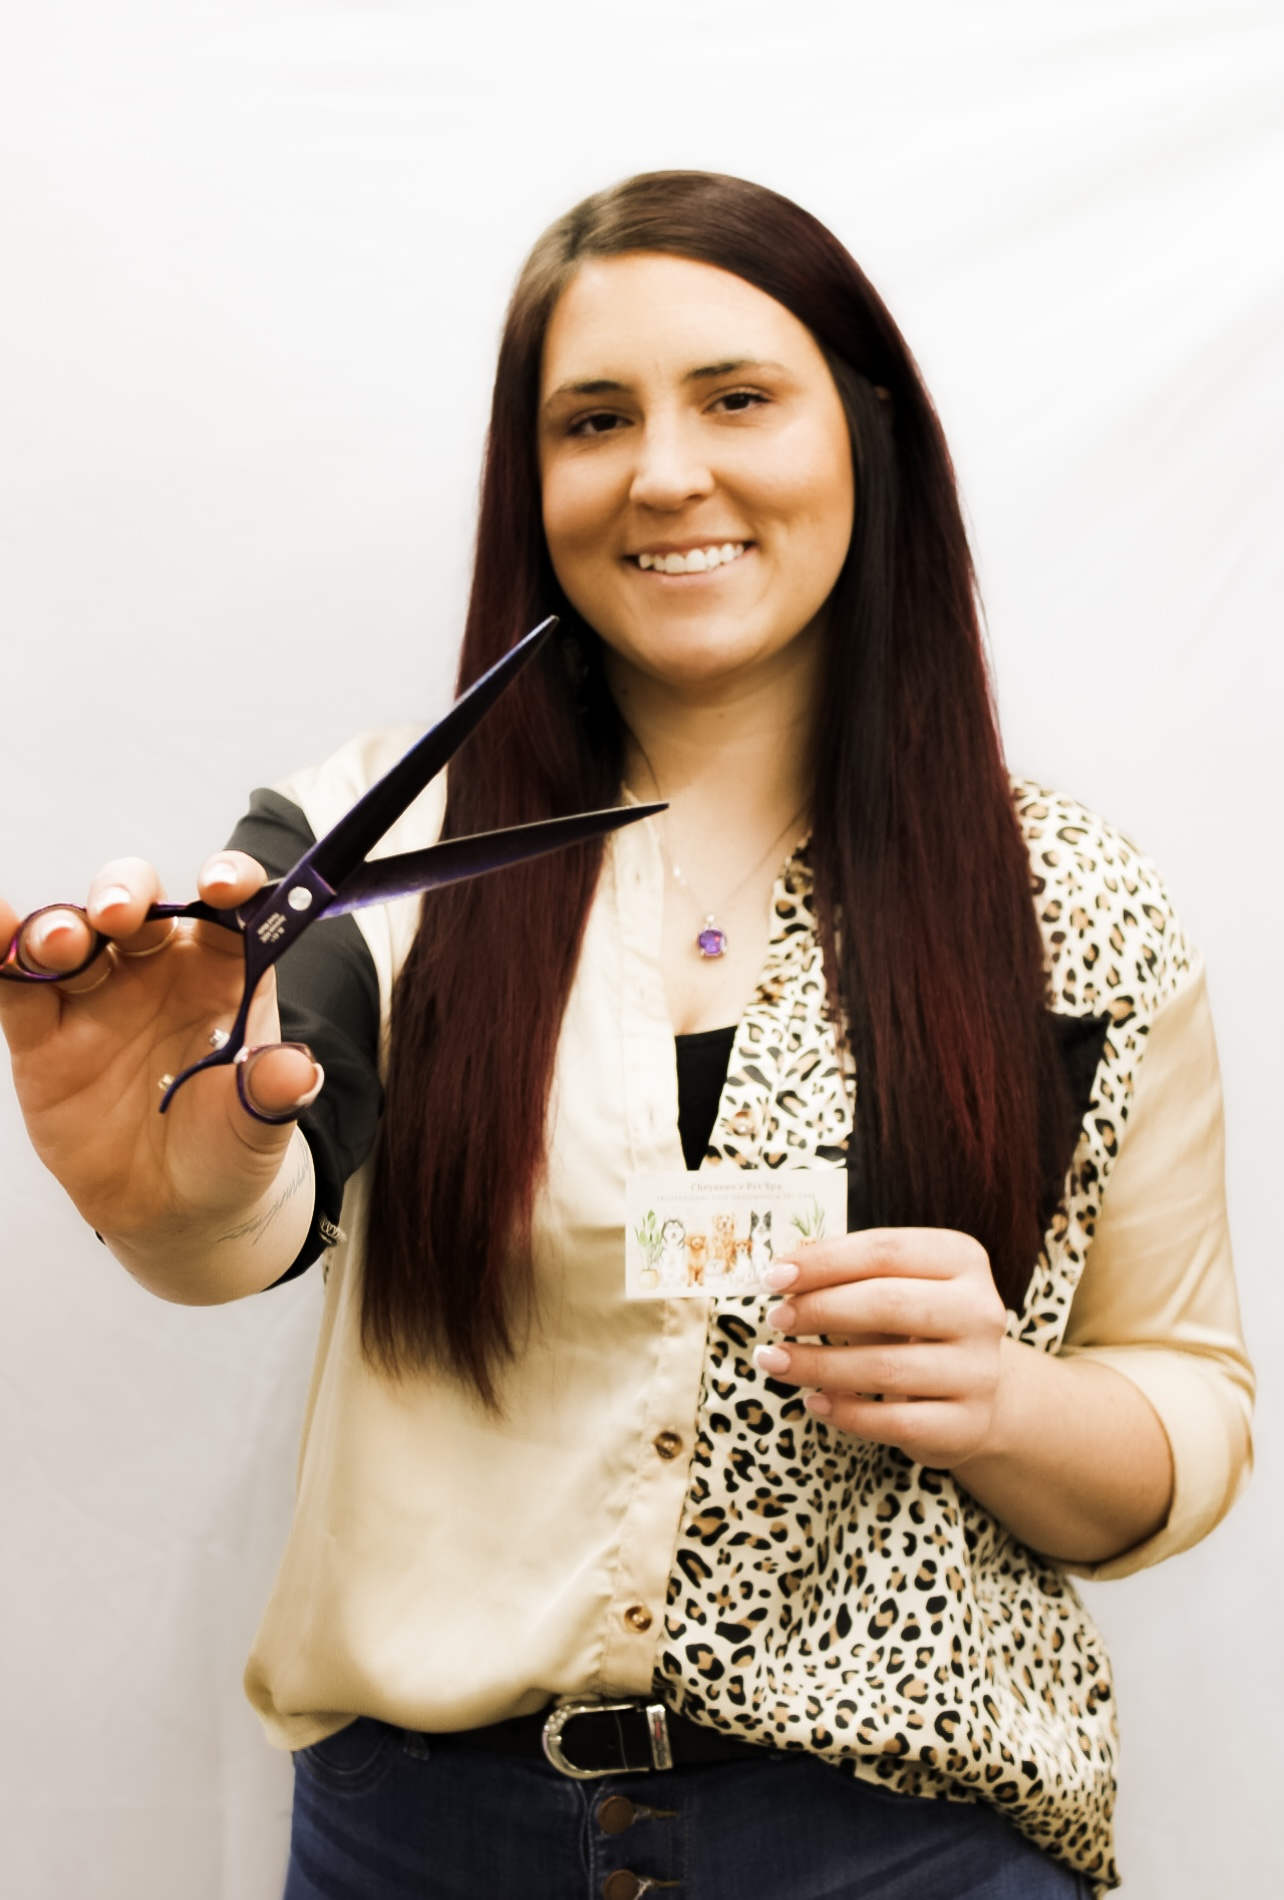
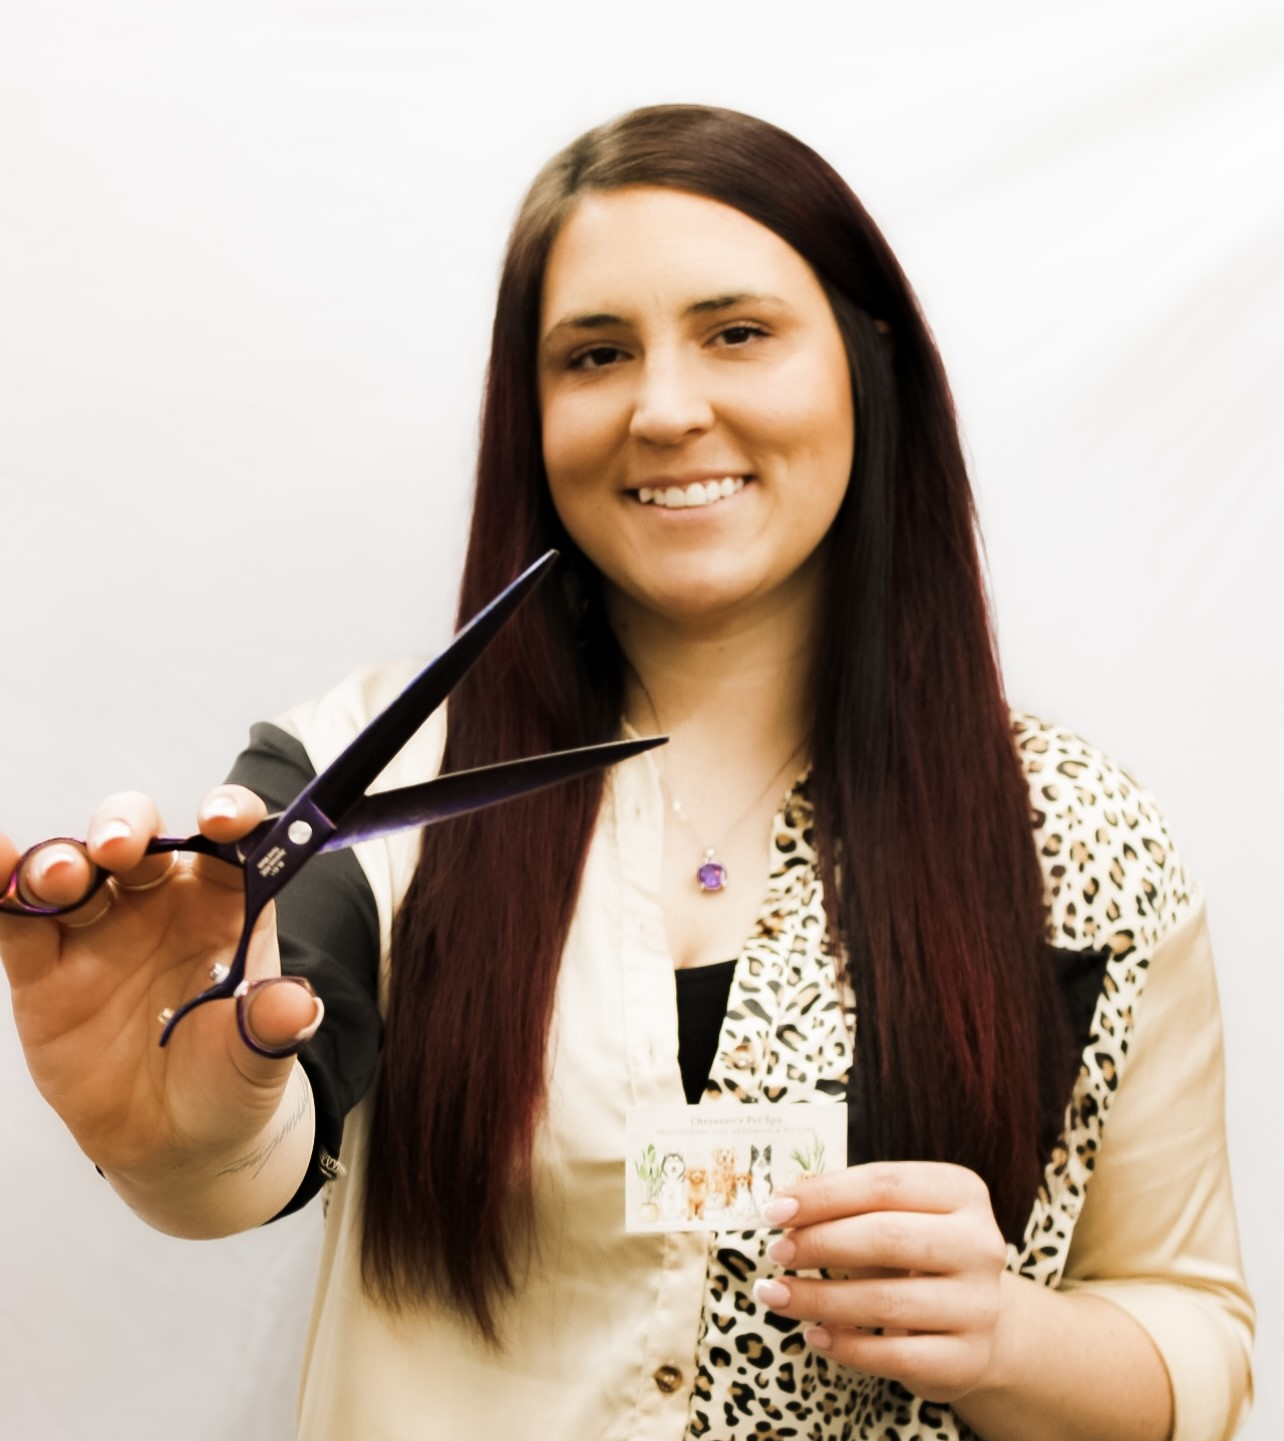
Refine mobile testimonials section styling and functionality
- Add circular quote icons with proper SVG centering
- Enhance testimonial author section with larger avatars and better layout
- Hide horizontal scrollbar on mobile testimonial track while preserving swipe
- Optimize mobile testimonial card spacing and badge sizing
- Clean up unused CSS sections and improve code comments

diff --git a/assets/js/main.js b/assets/js/main.js
@@ -587,17 +587,54 @@ document.addEventListener('DOMContentLoaded', function() {
                 n: "Kathy C.",
                 b: "KCruts Photography",
                 i: "./assets/images/kcruts-profile.jpg"
-            },
-            {
-                badge: "Brand Vision Mastery",
-                q: "Beauty and performance are not mutually exclusive. We specialize in creating experiences that are both visually stunning and technically optimized. Every millisecond counts, every pixel matters.",
-                n: "Partnership Over Projects",
-                q: "We don't just deliver projects—we build partnerships. Our success is measured by your success, and we're committed to being there long after the launch to ensure continued growth and optimization.",
-                n: "Suzanne H.",
-                b: "Bookkeeping Concepts",
-                i: "./assets/images/bkkg-concepts-profile.png"
             }
         ];
+
+        // Create testimonials cards like portfolio
+        const track = document.getElementById('testiTrack');
+        if (track) {
+            testimonialsData.forEach((review, i) => {
+                const card = document.createElement('div');
+                card.className = 'glass-card';
+                card.dataset.index = i;
+                
+                if (isMobile) {
+                    // Mobile: Create horizontal slider cards
+                    card.style.transform = `translateX(${i * 105}%)`;
+                    card.style.position = 'absolute';
+                    card.style.width = '85%';
+                    card.style.height = '100%';
+                    card.style.left = '7.5%';
+                    card.style.top = '0';
+                }
+                
+                card.innerHTML = `
+                    <div class="glass-card-content">
+                        <div class="quote-icon">
+                            <img src="${quoteImgUrl}" alt="Quote">
+                        </div>
+                        <div class="testimonial-badge">${review.badge}</div>
+                        <div class="testimonial-text">"${review.q}"</div>
+                        <div class="testimonial-author">
+                            <img src="${review.i}" alt="${review.n}" class="author-avatar">
+                            <div class="author-info">
+                                <div class="author-name">${review.n}</div>
+                                <div class="author-title">${review.b}</div>
+                            </div>
+                        </div>
+                    </div>
+                `;
+
+                if (isMobile) {
+                    // Mobile: Add touch events
+                    card.addEventListener('touchstart', handleTouchStart, { passive: true });
+                    card.addEventListener('touchmove', handleTouchMove, { passive: true });
+                    card.addEventListener('touchend', handleTouchEnd, { passive: true });
+                }
+                
+                track.appendChild(card);
+            });
+        }
     }
 
     function createCard(item) {
@@ -617,7 +654,7 @@ document.addEventListener('DOMContentLoaded', function() {
         `;
     }
 
-    // Mobile touch event handlers
+    // Mobile touch event handlers (like portfolio)
     function handleTouchStart(e) {
         startX = e.touches[0].clientX;
         isDragging = true;
@@ -632,16 +669,17 @@ document.addEventListener('DOMContentLoaded', function() {
         // Prevent default touch behavior
         e.preventDefault();
         
-        // Swipe threshold - increased for better detection
-        if (Math.abs(diff) > 80) {
+        // Swipe threshold - same as portfolio
+        if (Math.abs(diff) > 50) {
             if (diff > 0) {
-                // Swipe right - go to next
-                currentIndex = (currentIndex + 1) % testimonialsData.length;
-            } else {
-                // Swipe left - go to previous
+                // Swipe right - go to previous
                 currentIndex = (currentIndex - 1 + testimonialsData.length) % testimonialsData.length;
+            } else {
+                // Swipe left - go to next
+                currentIndex = (currentIndex + 1) % testimonialsData.length;
             }
             updateTestimonialsSlider();
+            isDragging = false; // Prevent multiple swipes
         }
     }
 
@@ -650,14 +688,18 @@ document.addEventListener('DOMContentLoaded', function() {
     }
 
     function updateTestimonialsSlider() {
-        const cards = track.querySelectorAll('.glass-card');
+        const cards = document.querySelectorAll('.glass-card');
         
-        // Set z-index for proper stacking
         cards.forEach((card, index) => {
             const position = (index - currentIndex + testimonialsData.length) % testimonialsData.length;
-            card.style.transform = `translateX(${position * 100}%)`;
-            card.style.opacity = index === currentIndex ? '1' : '0.3';
-            card.style.zIndex = index === currentIndex ? '10' : '5'; // Active card on top
+            
+            if (isMobile) {
+                // Mobile: Use same transform logic as portfolio
+                card.style.transform = `translateX(${position * 105}%)`;
+                card.style.transition = 'transform 0.3s ease';
+                card.style.opacity = position === 0 ? '1' : '0.5';
+                card.style.zIndex = position === 0 ? '10' : '1';
+            }
         });
     }
 

diff --git a/assets/css/styles.css b/assets/css/styles.css
@@ -1892,9 +1892,14 @@ opacity: 0.5;
         overflow-x: auto;
         overflow-y: hidden;
         scroll-behavior: smooth;
-        /* Disable auto-scroll animation on mobile */
+        -ms-overflow-style: none;
+        scrollbar-width: none;
         animation: none;
         will-change: transform;
+    }
+
+    .testi-track::-webkit-scrollbar {
+        display: none;
     }
  
     .testi-track:hover {
@@ -1937,7 +1942,7 @@ opacity: 0.5;
         background-color: #1377a5;
         color: var(--text-light);
         font-weight: 600;
-        font-size: 0.7rem;
+        font-size: 0.55rem;
         padding: 5px 12px;
         border-radius: 6px;
         margin-bottom: 15px;
@@ -2211,14 +2216,14 @@ opacity: 0.5;
     color: rgba(255, 255, 255, 0.5); 
 }
 
-.arc-panel-shine {
+/* .arc-panel-shine {
     position: absolute; inset: 0; z-index: 4;
     background: linear-gradient(135deg, rgba(255,255,255,0.8) 0%, transparent 50%);
     pointer-events: none;
-}
+} */
 
 /* --- ABOUT SECTION LIGHTBOX --- */
-#about-lightbox {
+/* #about-lightbox {
     position: fixed;
     top: 0;
     left: 0;
@@ -2282,7 +2287,7 @@ opacity: 0.5;
 .about-lb-header {
     text-align: center;
     margin-bottom: 40px;
-    /* Force children to stack and center perfectly */
+    // Force children to stack and center perfectly //
     display: flex;
     flex-direction: column;
     align-items: center; 
@@ -2420,7 +2425,7 @@ opacity: 0.5;
 .about-lb-nav .nav-btn:hover {
     transform: scale(1.05);
     transition: transform 0.20s ease;
-}
+} */
 
 /* Responsive Design */
 /* @media (max-width: 1024px) {
